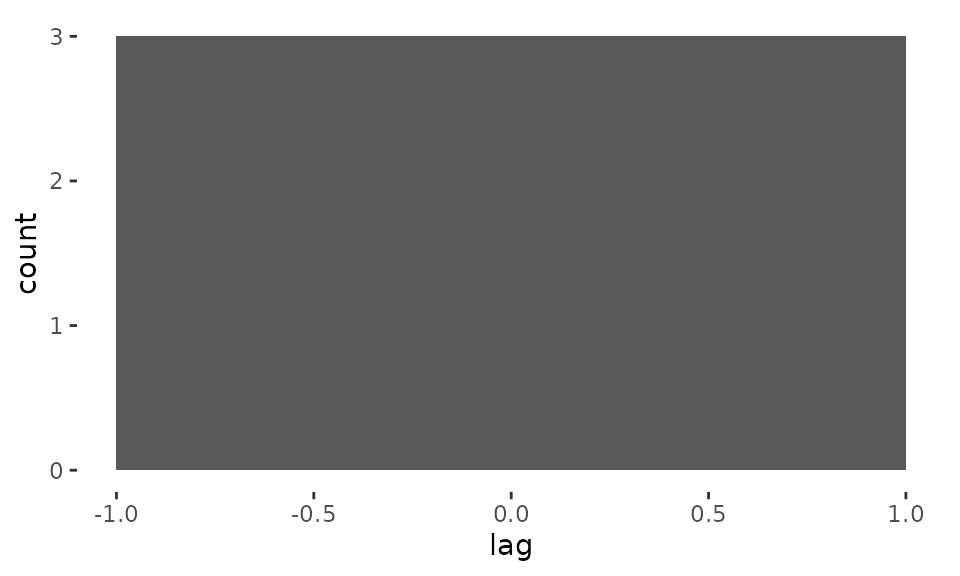
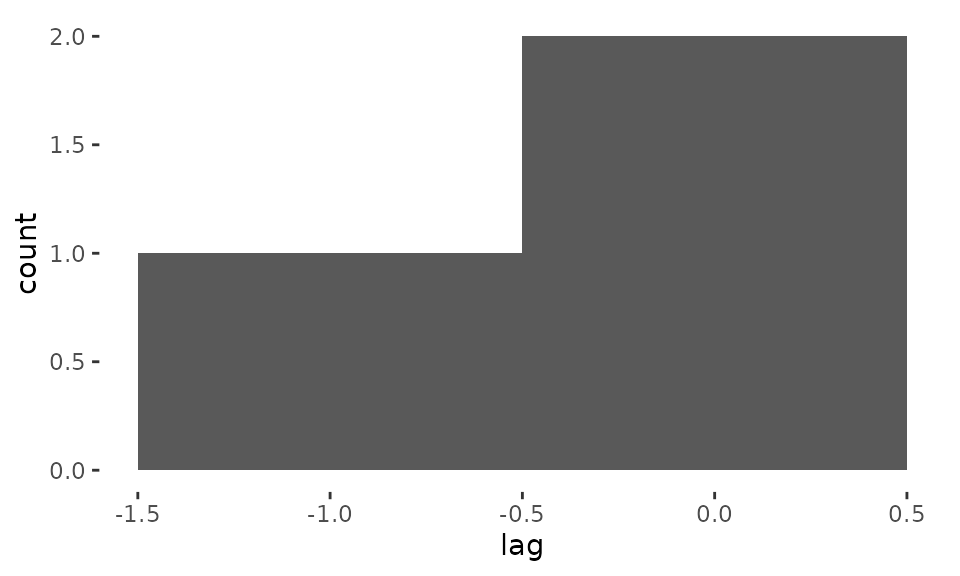
Deploying to gh-pages from @ mrc-ide/pika@502028b09ab97811269175de305a0884ef7572d0 🚀

diff --git a/articles/pika.html b/articles/pika.html
@@ -62,7 +62,7 @@ Ainslie</h4>
             
             <h4 data-toc-skip class="date">2026-08-05</h4>
       
-      <small class="dont-index">Source: <a href="https://github.com/mrc-ide/pika/blob/v0.3.0/vignettes/pika.Rmd" class="external-link"><code>vignettes/pika.Rmd</code></a></small>
+      <small class="dont-index">Source: <a href="https://github.com/mrc-ide/pika/blob/main/vignettes/pika.Rmd" class="external-link"><code>vignettes/pika.Rmd</code></a></small>
       <div class="d-none name"><code>pika.Rmd</code></div>
     </div>
 
@@ -142,9 +142,14 @@ correlation, faceted by group:</p>
 <p><img src="pika_files/figure-html/plot_corr-1.png" class="r-plt" alt="" width="768"></p>
 <p><code><a href="../reference/plot_lag.html">plot_lag()</a></code> plots a histogram of the lags returned by
 <code><a href="../reference/cross_corr.html">cross_corr()</a></code> across groups, which is more useful with many
-groups than the three shown here:</p>
+groups than the three shown here. Note that <code>bins</code> is passed
+directly to <code><a href="https://ggplot2.tidyverse.org/reference/geom_histogram.html" class="external-link">ggplot2::geom_histogram()</a></code>’s
+<code>binwidth</code>, not a bin <em>count</em> – with only a couple of
+lag values spanning a narrow range, as here, the default
+<code>bins = 2</code> bins everything into a single bar spanning the
+whole plot, so we use a narrower value:</p>
 <div class="sourceCode" id="cb7"><pre class="downlit sourceCode r">
-<code class="sourceCode R"><span><span class="fu"><a href="../reference/plot_lag.html">plot_lag</a></span><span class="op">(</span>dat <span class="op">=</span> <span class="va">lags</span>, lag_var <span class="op">=</span> <span class="st">"lag"</span><span class="op">)</span></span></code></pre></div>
+<code class="sourceCode R"><span><span class="fu"><a href="../reference/plot_lag.html">plot_lag</a></span><span class="op">(</span>dat <span class="op">=</span> <span class="va">lags</span>, lag_var <span class="op">=</span> <span class="st">"lag"</span>, bins <span class="op">=</span> <span class="fl">1</span><span class="op">)</span></span></code></pre></div>
 <p><img src="pika_files/figure-html/plot_lag-1.png" class="r-plt" alt="" width="480"></p>
 </div>
 <div class="section level2">

diff --git a/reference/calc_percent_change.html b/reference/calc_percent_change.html
@@ -41,7 +41,7 @@ baseline mean:"><meta property="og:image" content="https://mrc-ide.github.io/pik
 <div class="row">
   <main id="main" class="col-md-9"><div class="page-header">
       <img src="../logo.png" class="logo" alt=""><h1>Convert a count time series to fractional change relative to a baseline period</h1>
-      <small class="dont-index">Source: <a href="https://github.com/mrc-ide/pika/blob/v0.3.0/R/analysis_functions.R" class="external-link"><code>R/analysis_functions.R</code></a></small>
+      <small class="dont-index">Source: <a href="https://github.com/mrc-ide/pika/blob/main/R/analysis_functions.R" class="external-link"><code>R/analysis_functions.R</code></a></small>
       <div class="d-none name"><code>calc_percent_change.Rd</code></div>
     </div>
 

diff --git a/reference/cross_corr.html b/reference/cross_corr.html
@@ -43,7 +43,7 @@ precede changes in the secondary series."><meta property="og:image" content="htt
 <div class="row">
   <main id="main" class="col-md-9"><div class="page-header">
       <img src="../logo.png" class="logo" alt=""><h1>Find the lag at which cross-correlation between two time series is maximised</h1>
-      <small class="dont-index">Source: <a href="https://github.com/mrc-ide/pika/blob/v0.3.0/R/analysis_functions.R" class="external-link"><code>R/analysis_functions.R</code></a></small>
+      <small class="dont-index">Source: <a href="https://github.com/mrc-ide/pika/blob/main/R/analysis_functions.R" class="external-link"><code>R/analysis_functions.R</code></a></small>
       <div class="d-none name"><code>cross_corr.Rd</code></div>
     </div>
 

diff --git a/reference/rolling_corr.html b/reference/rolling_corr.html
@@ -41,7 +41,7 @@ window."><meta property="og:image" content="https://mrc-ide.github.io/pika/logo.
 <div class="row">
   <main id="main" class="col-md-9"><div class="page-header">
       <img src="../logo.png" class="logo" alt=""><h1>Calculate rolling (moving-window) correlation between two time series</h1>
-      <small class="dont-index">Source: <a href="https://github.com/mrc-ide/pika/blob/v0.3.0/R/analysis_functions.R" class="external-link"><code>R/analysis_functions.R</code></a></small>
+      <small class="dont-index">Source: <a href="https://github.com/mrc-ide/pika/blob/main/R/analysis_functions.R" class="external-link"><code>R/analysis_functions.R</code></a></small>
       <div class="d-none name"><code>rolling_corr.Rd</code></div>
     </div>
 

diff --git a/reference/estimate_rt.html b/reference/estimate_rt.html
@@ -39,7 +39,7 @@ groups are combined into a single data frame."><meta property="og:image" content
 <div class="row">
   <main id="main" class="col-md-9"><div class="page-header">
       <img src="../logo.png" class="logo" alt=""><h1>Estimate the effective reproduction number (Rt) over time by group</h1>
-      <small class="dont-index">Source: <a href="https://github.com/mrc-ide/pika/blob/v0.3.0/R/analysis_functions.R" class="external-link"><code>R/analysis_functions.R</code></a></small>
+      <small class="dont-index">Source: <a href="https://github.com/mrc-ide/pika/blob/main/R/analysis_functions.R" class="external-link"><code>R/analysis_functions.R</code></a></small>
       <div class="d-none name"><code>estimate_rt.Rd</code></div>
     </div>
 

diff --git a/reference/plot_corr.html b/reference/plot_corr.html
@@ -45,7 +45,7 @@ included in the plot; if absent the line is simply omitted."><meta property="og:
 <div class="row">
   <main id="main" class="col-md-9"><div class="page-header">
       <img src="../logo.png" class="logo" alt=""><h1>Plot time series and rolling correlation over time by group</h1>
-      <small class="dont-index">Source: <a href="https://github.com/mrc-ide/pika/blob/v0.3.0/R/plot_functions.R" class="external-link"><code>R/plot_functions.R</code></a></small>
+      <small class="dont-index">Source: <a href="https://github.com/mrc-ide/pika/blob/main/R/plot_functions.R" class="external-link"><code>R/plot_functions.R</code></a></small>
       <div class="d-none name"><code>plot_corr.Rd</code></div>
     </div>
 

diff --git a/reference/plot_lag.html b/reference/plot_lag.html
@@ -35,7 +35,7 @@ showing the distribution of optimal lags across groups."><meta property="og:imag
 <div class="row">
   <main id="main" class="col-md-9"><div class="page-header">
       <img src="../logo.png" class="logo" alt=""><h1>Plot a histogram of optimal lags across groups</h1>
-      <small class="dont-index">Source: <a href="https://github.com/mrc-ide/pika/blob/v0.3.0/R/plot_functions.R" class="external-link"><code>R/plot_functions.R</code></a></small>
+      <small class="dont-index">Source: <a href="https://github.com/mrc-ide/pika/blob/main/R/plot_functions.R" class="external-link"><code>R/plot_functions.R</code></a></small>
       <div class="d-none name"><code>plot_lag.Rd</code></div>
     </div>
 

diff --git a/reference/exante_movement_data.html b/reference/exante_movement_data.html
@@ -39,7 +39,7 @@ New Year). The underlying data are based on near real-time people movement stati
 <div class="row">
   <main id="main" class="col-md-9"><div class="page-header">
       <img src="../logo.png" class="logo" alt=""><h1>Daily within-city movement data for different regions in China</h1>
-      <small class="dont-index">Source: <a href="https://github.com/mrc-ide/pika/blob/v0.3.0/R/data.R" class="external-link"><code>R/data.R</code></a></small>
+      <small class="dont-index">Source: <a href="https://github.com/mrc-ide/pika/blob/main/R/data.R" class="external-link"><code>R/data.R</code></a></small>
       <div class="d-none name"><code>exante_movement_data.Rd</code></div>
     </div>
 

diff --git a/reference/wastewater_data.html b/reference/wastewater_data.html
@@ -53,7 +53,7 @@ See data-raw/wastewater_data.R for the full processing script."><meta property="
 <div class="row">
   <main id="main" class="col-md-9"><div class="page-header">
       <img src="../logo.png" class="logo" alt=""><h1>Weekly SARS-CoV-2 wastewater concentration for three US states</h1>
-      <small class="dont-index">Source: <a href="https://github.com/mrc-ide/pika/blob/v0.3.0/R/data.R" class="external-link"><code>R/data.R</code></a></small>
+      <small class="dont-index">Source: <a href="https://github.com/mrc-ide/pika/blob/main/R/data.R" class="external-link"><code>R/data.R</code></a></small>
       <div class="d-none name"><code>wastewater_data.Rd</code></div>
     </div>
 

diff --git a/reference/covid_case_data.html b/reference/covid_case_data.html
@@ -47,7 +47,7 @@ processing script."><meta property="og:image" content="https://mrc-ide.github.io
 <div class="row">
   <main id="main" class="col-md-9"><div class="page-header">
       <img src="../logo.png" class="logo" alt=""><h1>Weekly reported COVID-19 cases for three US states</h1>
-      <small class="dont-index">Source: <a href="https://github.com/mrc-ide/pika/blob/v0.3.0/R/data.R" class="external-link"><code>R/data.R</code></a></small>
+      <small class="dont-index">Source: <a href="https://github.com/mrc-ide/pika/blob/main/R/data.R" class="external-link"><code>R/data.R</code></a></small>
       <div class="d-none name"><code>covid_case_data.Rd</code></div>
     </div>
 

diff --git a/reference/china_case_data.html b/reference/china_case_data.html
@@ -43,7 +43,7 @@ clinically diagnosed cases were additionally included between 12 and 19 February
 <div class="row">
   <main id="main" class="col-md-9"><div class="page-header">
       <img src="../logo.png" class="logo" alt=""><h1>Daily confirmed cases of COVID-19 in China</h1>
-      <small class="dont-index">Source: <a href="https://github.com/mrc-ide/pika/blob/v0.3.0/R/data.R" class="external-link"><code>R/data.R</code></a></small>
+      <small class="dont-index">Source: <a href="https://github.com/mrc-ide/pika/blob/main/R/data.R" class="external-link"><code>R/data.R</code></a></small>
       <div class="d-none name"><code>china_case_data.Rd</code></div>
     </div>
 

diff --git a/articles/wastewater-surveillance.html b/articles/wastewater-surveillance.html
@@ -62,7 +62,7 @@ Ainslie</h4>
             
             <h4 data-toc-skip class="date">2026-08-05</h4>
       
-      <small class="dont-index">Source: <a href="https://github.com/mrc-ide/pika/blob/v0.3.0/vignettes/wastewater-surveillance.Rmd" class="external-link"><code>vignettes/wastewater-surveillance.Rmd</code></a></small>
+      <small class="dont-index">Source: <a href="https://github.com/mrc-ide/pika/blob/main/vignettes/wastewater-surveillance.Rmd" class="external-link"><code>vignettes/wastewater-surveillance.Rmd</code></a></small>
       <div class="d-none name"><code>wastewater-surveillance.Rmd</code></div>
     </div>
 
